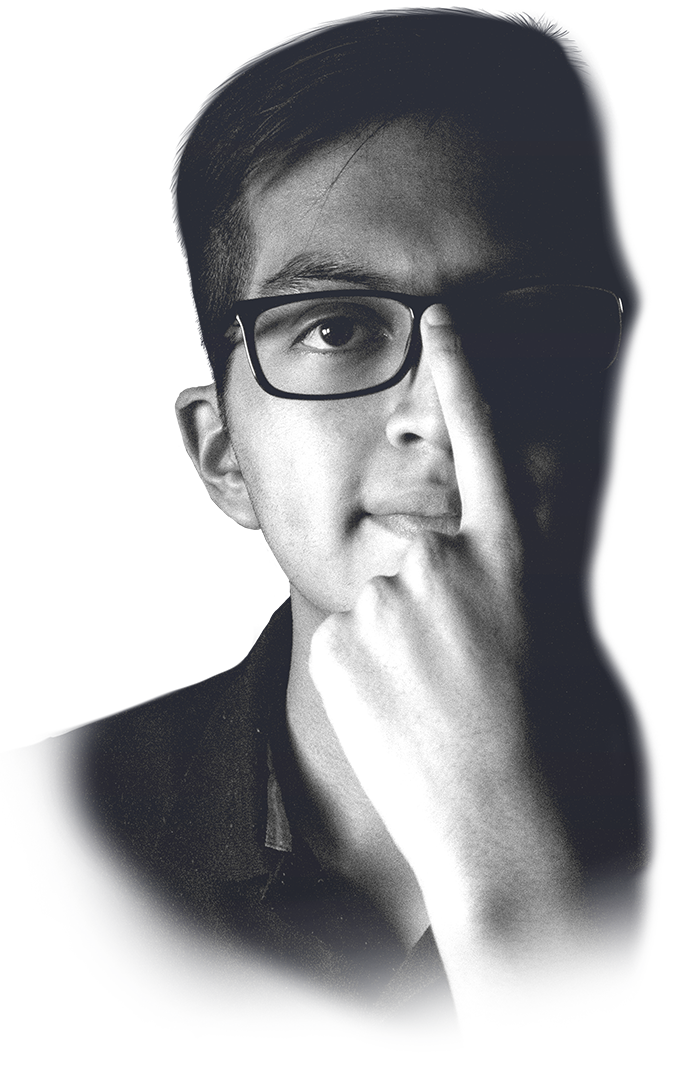
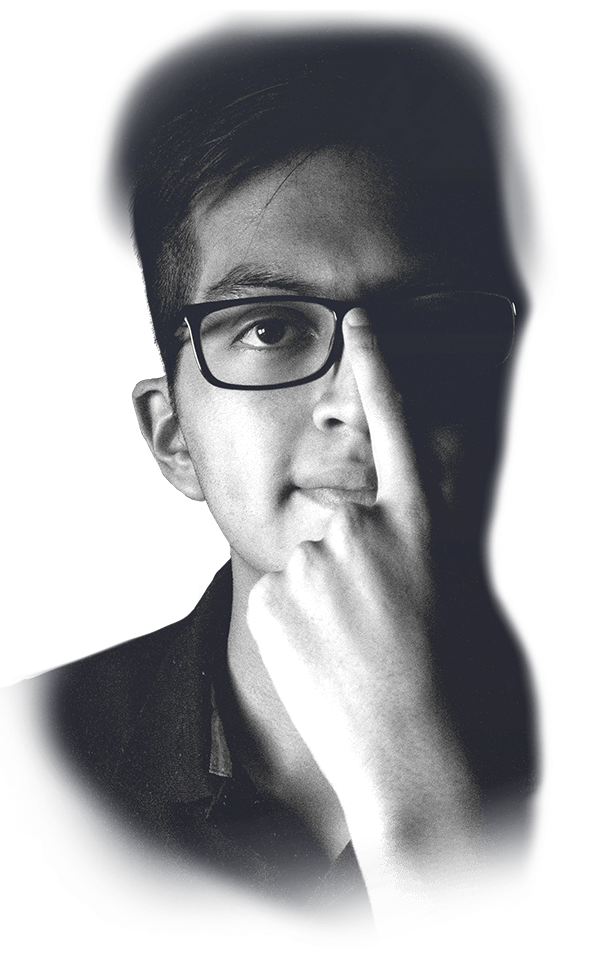
no message

diff --git a/portfolio/portfolio-raymi/main.js b/portfolio/portfolio-raymi/main.js
@@ -500,7 +500,7 @@ __webpack_require__.r(__webpack_exports__);
  * @suppress {suspiciousCode,uselessCode,missingProperties,missingOverride,checkTypes}
  * tslint:disable
  */ 
-var styles = [".container[_ngcontent-%COMP%]{\n  width: 100%;\n  height: 100%;\n  display: flex;\n  flex-direction: row;\n  justify-content: center;\nalign-items: center;\n  box-sizing: border-box;\n  padding: 30px;\n}\n\n.container-content[_ngcontent-%COMP%]{\n  width: 100%;\n  height: 100%;\n\n  display: flex;\n  flex-direction: row;\n  justify-content: center;\n  align-items: center;\n\n}\n\n.container-data[_ngcontent-%COMP%]{\n  display: flex;\n  height: 100%;\n  flex-direction: column;\n  width:100%;\n  max-width: 436px;\n  align-items: center;\n  justify-content: center;\n}\n\n.container-icons[_ngcontent-%COMP%]{\n  display: flex;\n  flex-direction: row;\n  margin-top: 35px;\n}\n\n.contrainer-content[_ngcontent-%COMP%]{\n  display: flex;\n  flex-direction: row;\n}\n\n.line[_ngcontent-%COMP%]{\n  width: 32px;\n  height: 1px;\n  background-color: white;\n  margin-top: 8px;\n  z-index: 1;\n  box-sizing: border-box;\n}\n\nfigure.photo[_ngcontent-%COMP%]{\n  width:100%;\n  max-width: 436px;\n  margin-right: -60px;\n}\n\nfigure.icon[_ngcontent-%COMP%]{\n  width: 73px;\n}\n\nfigure.icon[_ngcontent-%COMP%]:nth-child(2){\n  width: 54px;\n}\n\nfigure.icon[_ngcontent-%COMP%]:nth-child(1n+2){\n  margin-left: 42px;\n\n}\n\nimg[_ngcontent-%COMP%]{\n  width: 100%;\n}\n\np[_ngcontent-%COMP%]{\n  margin-left: 8px;\n}\n\nh1[_ngcontent-%COMP%]{\n  z-index: 1;\n}\n\n.photo.mobile[_ngcontent-%COMP%]{\ndisplay: none;\n}\n\n@media only screen and (max-width: 900px) {\n  .container-data[_ngcontent-%COMP%]{\n\n    max-width: 300px;\n\n  }\n\n  figure.icon[_ngcontent-%COMP%]{\n    width: 53px;\n  }\n\n  figure.icon[_ngcontent-%COMP%]:nth-child(2){\n    width: 39.5px;\n  }\n\n\n  figure.icon[_ngcontent-%COMP%]:nth-child(1n+2){\n    margin-left: 25px;\n\n  }\n\n  figure.photo[_ngcontent-%COMP%]{\n    width:80%;\n    max-width: 400px;\n  }\n}\n\n@media only screen and (max-width: 768px) {\n  .container[_ngcontent-%COMP%]{\nmin-height: calc(100vh - 80px);\n    flex-direction: column;\n    justify-content: center;\n    align-items: center;\n    padding: 20px;\n    box-sizing: border-box;\n\n  }\n  .container-content[_ngcontent-%COMP%]{\n    height: 100%;\n    flex-direction: column;\n  }\n\n  .photo.mobile[_ngcontent-%COMP%]{\n    display: block;\n  }\n\n  .photo.desktop[_ngcontent-%COMP%]{\n    display: none;\n  }\n  figure.photo[_ngcontent-%COMP%]{\n    width:100%;\n    padding-right: 10%;\n    padding-left: 10%;\n    box-sizing: border-box;\n    margin-right: 0;\n   margin-top: -80px;\n    margin-bottom: -50px;\n  }\n\n  figure.icon[_ngcontent-%COMP%]:nth-child(1n+2){\n    margin-left: 0;\n  }\n\n  figure.icon[_ngcontent-%COMP%]{\n    width: 53px;\n  }\n\n  figure.icon[_ngcontent-%COMP%]:nth-child(2){\n    width: 39.5px;\n  }\n\n\n  figure.icon[_ngcontent-%COMP%]:nth-child(1n+2){\n    margin-left: 25px;\n\n  }\n\n  .container-icons[_ngcontent-%COMP%]{\n    display: flex;\n    flex-direction: row;\n    margin-bottom: 10px;\n  }\n}"];
+var styles = [".container[_ngcontent-%COMP%]{\n  width: 100%;\n  height: 100%;\n  display: flex;\n  flex-direction: row;\n  justify-content: center;\nalign-items: center;\n  box-sizing: border-box;\n  padding: 30px;\n}\n\n.container-content[_ngcontent-%COMP%]{\n  width: 100%;\n  height: 100%;\n\n  display: flex;\n  flex-direction: row;\n  justify-content: center;\n  align-items: center;\n\n}\n\n.container-data[_ngcontent-%COMP%]{\n  display: flex;\n  height: 100%;\n  flex-direction: column;\n  width:100%;\n  max-width: 436px;\n  align-items: center;\n  justify-content: center;\n}\n\n.container-icons[_ngcontent-%COMP%]{\n  display: flex;\n  flex-direction: row;\n  margin-top: 35px;\n}\n\n.contrainer-content[_ngcontent-%COMP%]{\n  display: flex;\n  flex-direction: row;\n}\n\n.line[_ngcontent-%COMP%]{\n  width: 32px;\n  height: 1px;\n  background-color: white;\n  margin-top: 8px;\n  z-index: 1;\n  box-sizing: border-box;\n}\n\nfigure.photo[_ngcontent-%COMP%]{\n  width:80%;\n  max-width: 390px;\n  margin-right: -60px;\n}\n\nfigure.icon[_ngcontent-%COMP%]{\n  width: 73px;\n}\n\nfigure.icon[_ngcontent-%COMP%]:nth-child(2){\n  width: 54px;\n}\n\nfigure.icon[_ngcontent-%COMP%]:nth-child(1n+2){\n  margin-left: 42px;\n\n}\n\nimg[_ngcontent-%COMP%]{\n  width: 100%;\n}\n\np[_ngcontent-%COMP%]{\n  margin-left: 8px;\n}\n\nh1[_ngcontent-%COMP%]{\n  z-index: 1;\n}\n\n.photo.mobile[_ngcontent-%COMP%]{\ndisplay: none;\n}\n\n@media only screen and (max-width: 900px) {\n  .container-data[_ngcontent-%COMP%]{\n\n    max-width: 300px;\n\n  }\n\n  figure.icon[_ngcontent-%COMP%]{\n    width: 53px;\n  }\n\n  figure.icon[_ngcontent-%COMP%]:nth-child(2){\n    width: 39.5px;\n  }\n\n\n  figure.icon[_ngcontent-%COMP%]:nth-child(1n+2){\n    margin-left: 25px;\n\n  }\n\n  figure.photo[_ngcontent-%COMP%]{\n    width:80%;\n    max-width: 400px;\n  }\n}\n\n@media only screen and (max-width: 768px) {\n  .container[_ngcontent-%COMP%]{\nmin-height: calc(100vh - 80px);\n    flex-direction: column;\n    justify-content: center;\n    align-items: center;\n    padding: 20px;\n    box-sizing: border-box;\n\n  }\n  .container-content[_ngcontent-%COMP%]{\n    height: 100%;\n    flex-direction: column;\n  }\n\n  .photo.mobile[_ngcontent-%COMP%]{\n    display: block;\n  }\n\n  .photo.desktop[_ngcontent-%COMP%]{\n    display: none;\n  }\n  figure.photo[_ngcontent-%COMP%]{\n    width:100%;\n    padding-right: 10%;\n    padding-left: 10%;\n    box-sizing: border-box;\n    margin-right: 0;\n   margin-top: -80px;\n    margin-bottom: -50px;\n  }\n\n  figure.icon[_ngcontent-%COMP%]:nth-child(1n+2){\n    margin-left: 0;\n  }\n\n  figure.icon[_ngcontent-%COMP%]{\n    width: 53px;\n  }\n\n  figure.icon[_ngcontent-%COMP%]:nth-child(2){\n    width: 39.5px;\n  }\n\n\n  figure.icon[_ngcontent-%COMP%]:nth-child(1n+2){\n    margin-left: 25px;\n\n  }\n\n  .container-icons[_ngcontent-%COMP%]{\n    display: flex;\n    flex-direction: row;\n    margin-bottom: 10px;\n  }\n}"];
 
 
 

diff --git a/portfolio/portfolio-raymi/index.html b/portfolio/portfolio-raymi/index.html
@@ -13,7 +13,7 @@
   <meta property="og:title" content="Raymi Farinango" />
   <meta property="og:type" content="I am an Interactive media designer with knowledge in the areas of interactive experience design, digital photography, information architecture and motion graphic" />
   <meta property="og:url" content="https://jacksonjao.github.io/portfolio/portfolio-raymi/" />
-  <meta property="og:image" content="" />
+  <meta property="og:image" content="assets/img/img_opengraph.jpg" />
   <meta property="og:description" content="I am an Interactive media designer with knowledge in the areas of interactive experience design, digital photography, information architecture and motion graphic" />
 
   <meta name="viewport" content="width=device-width, initial-scale=1">
